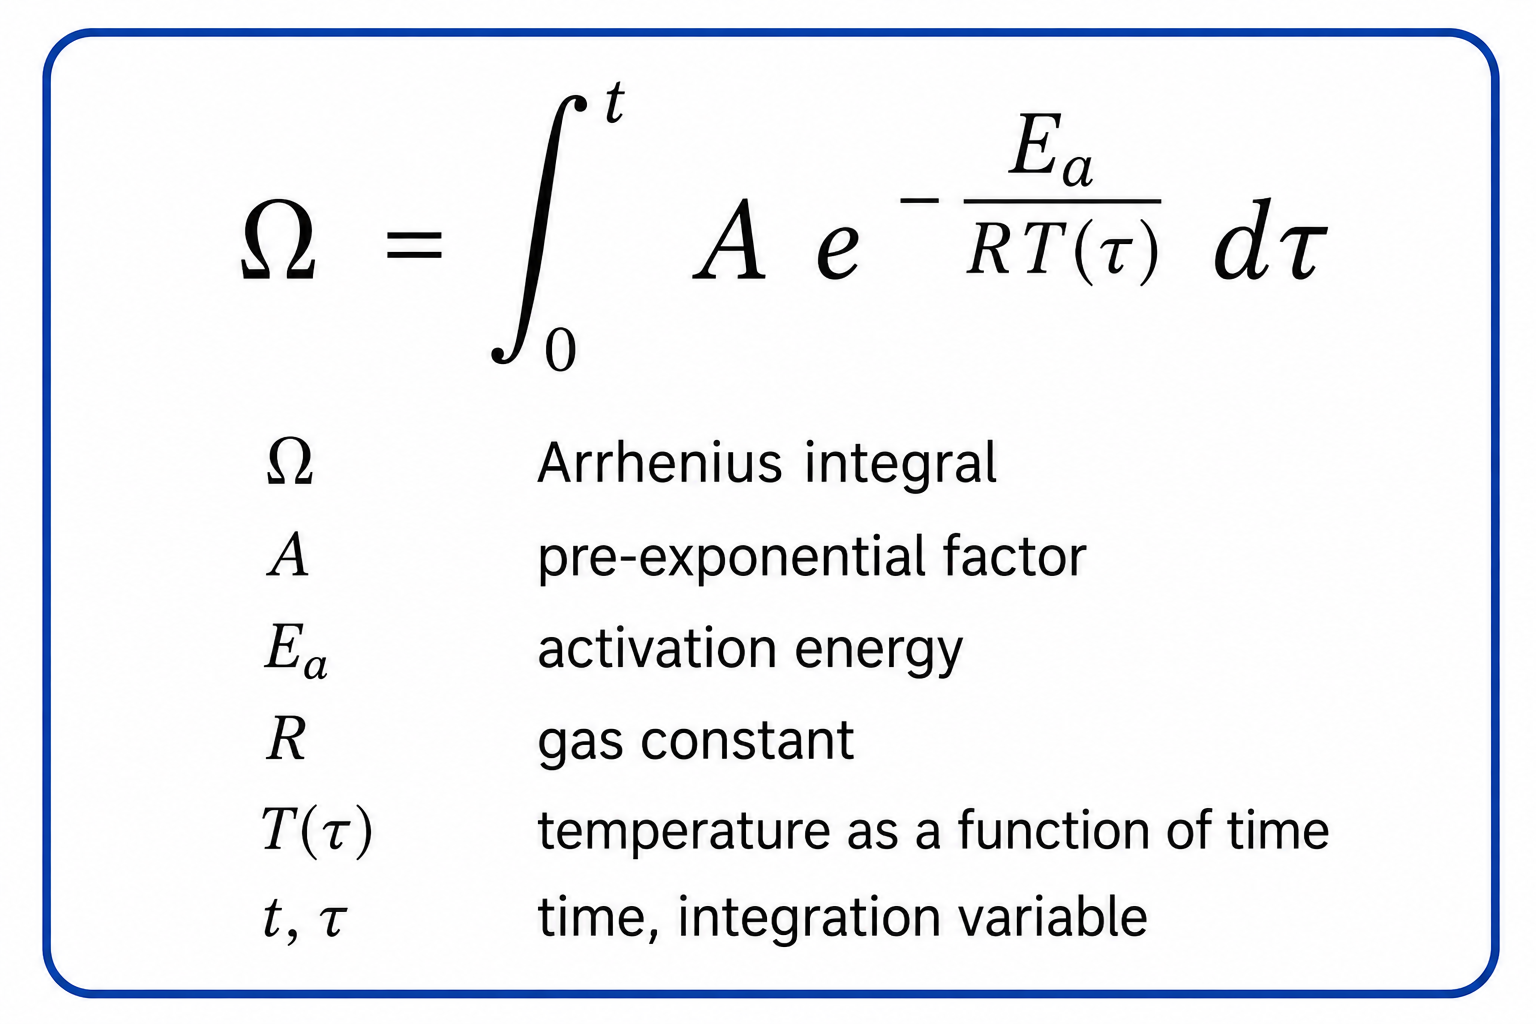
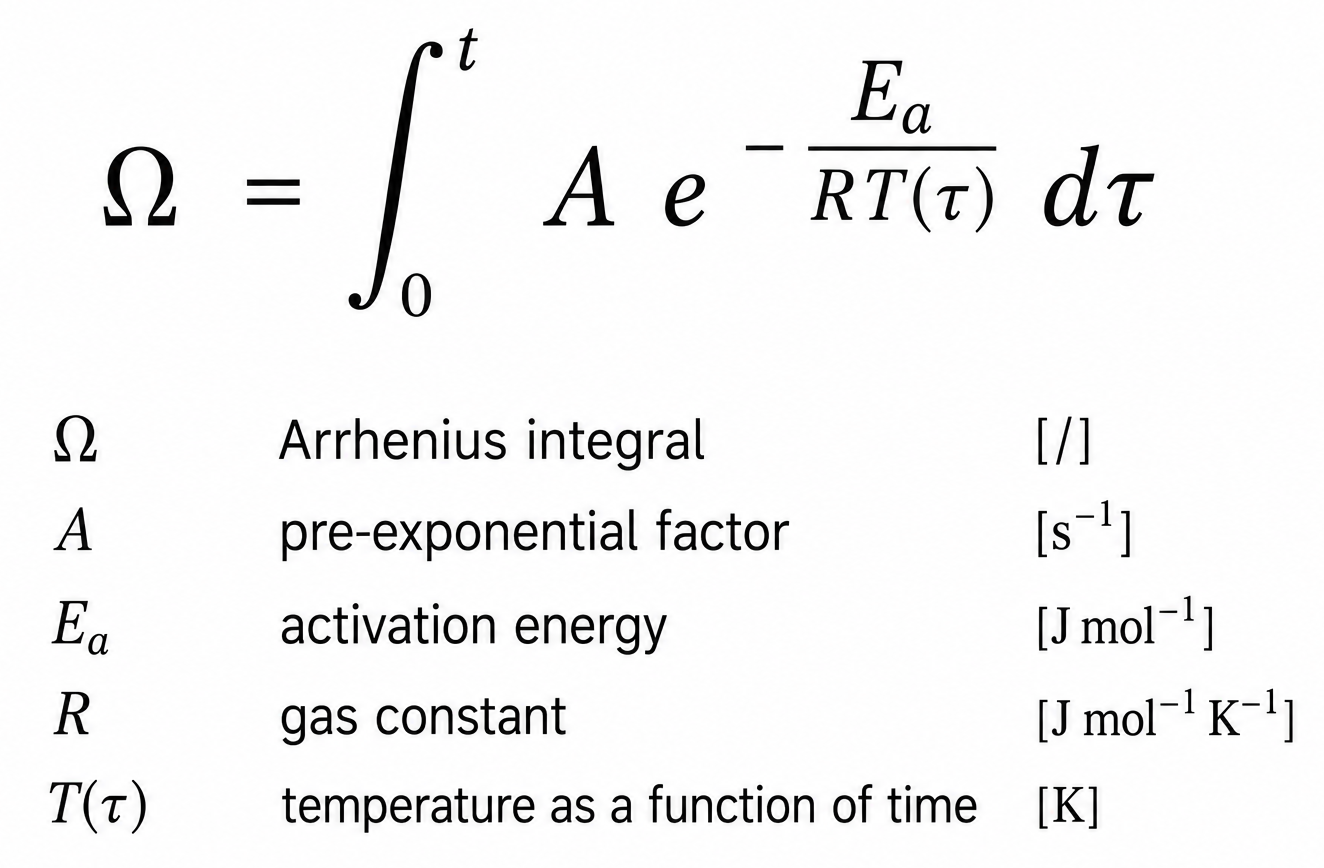
Improve the look of image on introductory page

diff --git a/arrheniuscalculator/qml/HomeView.qml b/arrheniuscalculator/qml/HomeView.qml
@@ -43,13 +43,34 @@ Item {
         }
 
         // ── Image ─────────────────────────────────────────────────────────
-        Image {
+        // The Item fills the layout cell; the Image inside uses PreserveAspectFit
+        // so its painted area may be smaller than the cell (letterboxed). The
+        // Rectangle is sized to paintedWidth/paintedHeight so the border hugs
+        // only the visible picture, not the empty letterbox space.
+        Item {
             Layout.fillWidth: true
             Layout.fillHeight: true
-            source: Qt.resolvedUrl("ArrheniusCalculator/Intro_Image.png")
-            fillMode: Image.PreserveAspectFit
-            smooth: true
-            mipmap: true
+
+            Image {
+                id: introImage
+                anchors.centerIn: parent
+                width: parent.width
+                height: parent.height
+                source: Qt.resolvedUrl("ArrheniusCalculator/Intro_Image.png")
+                fillMode: Image.PreserveAspectFit
+                smooth: true
+                mipmap: true
+            }
+
+            Rectangle {
+                anchors.centerIn: parent
+                width:  introImage.paintedWidth
+                height: introImage.paintedHeight
+                color: "transparent"
+                border.color: "#031297"   // dark blue frame
+                border.width: 2.5
+                radius: 8
+            }
         }
 
         // ── Button row ────────────────────────────────────────────────────